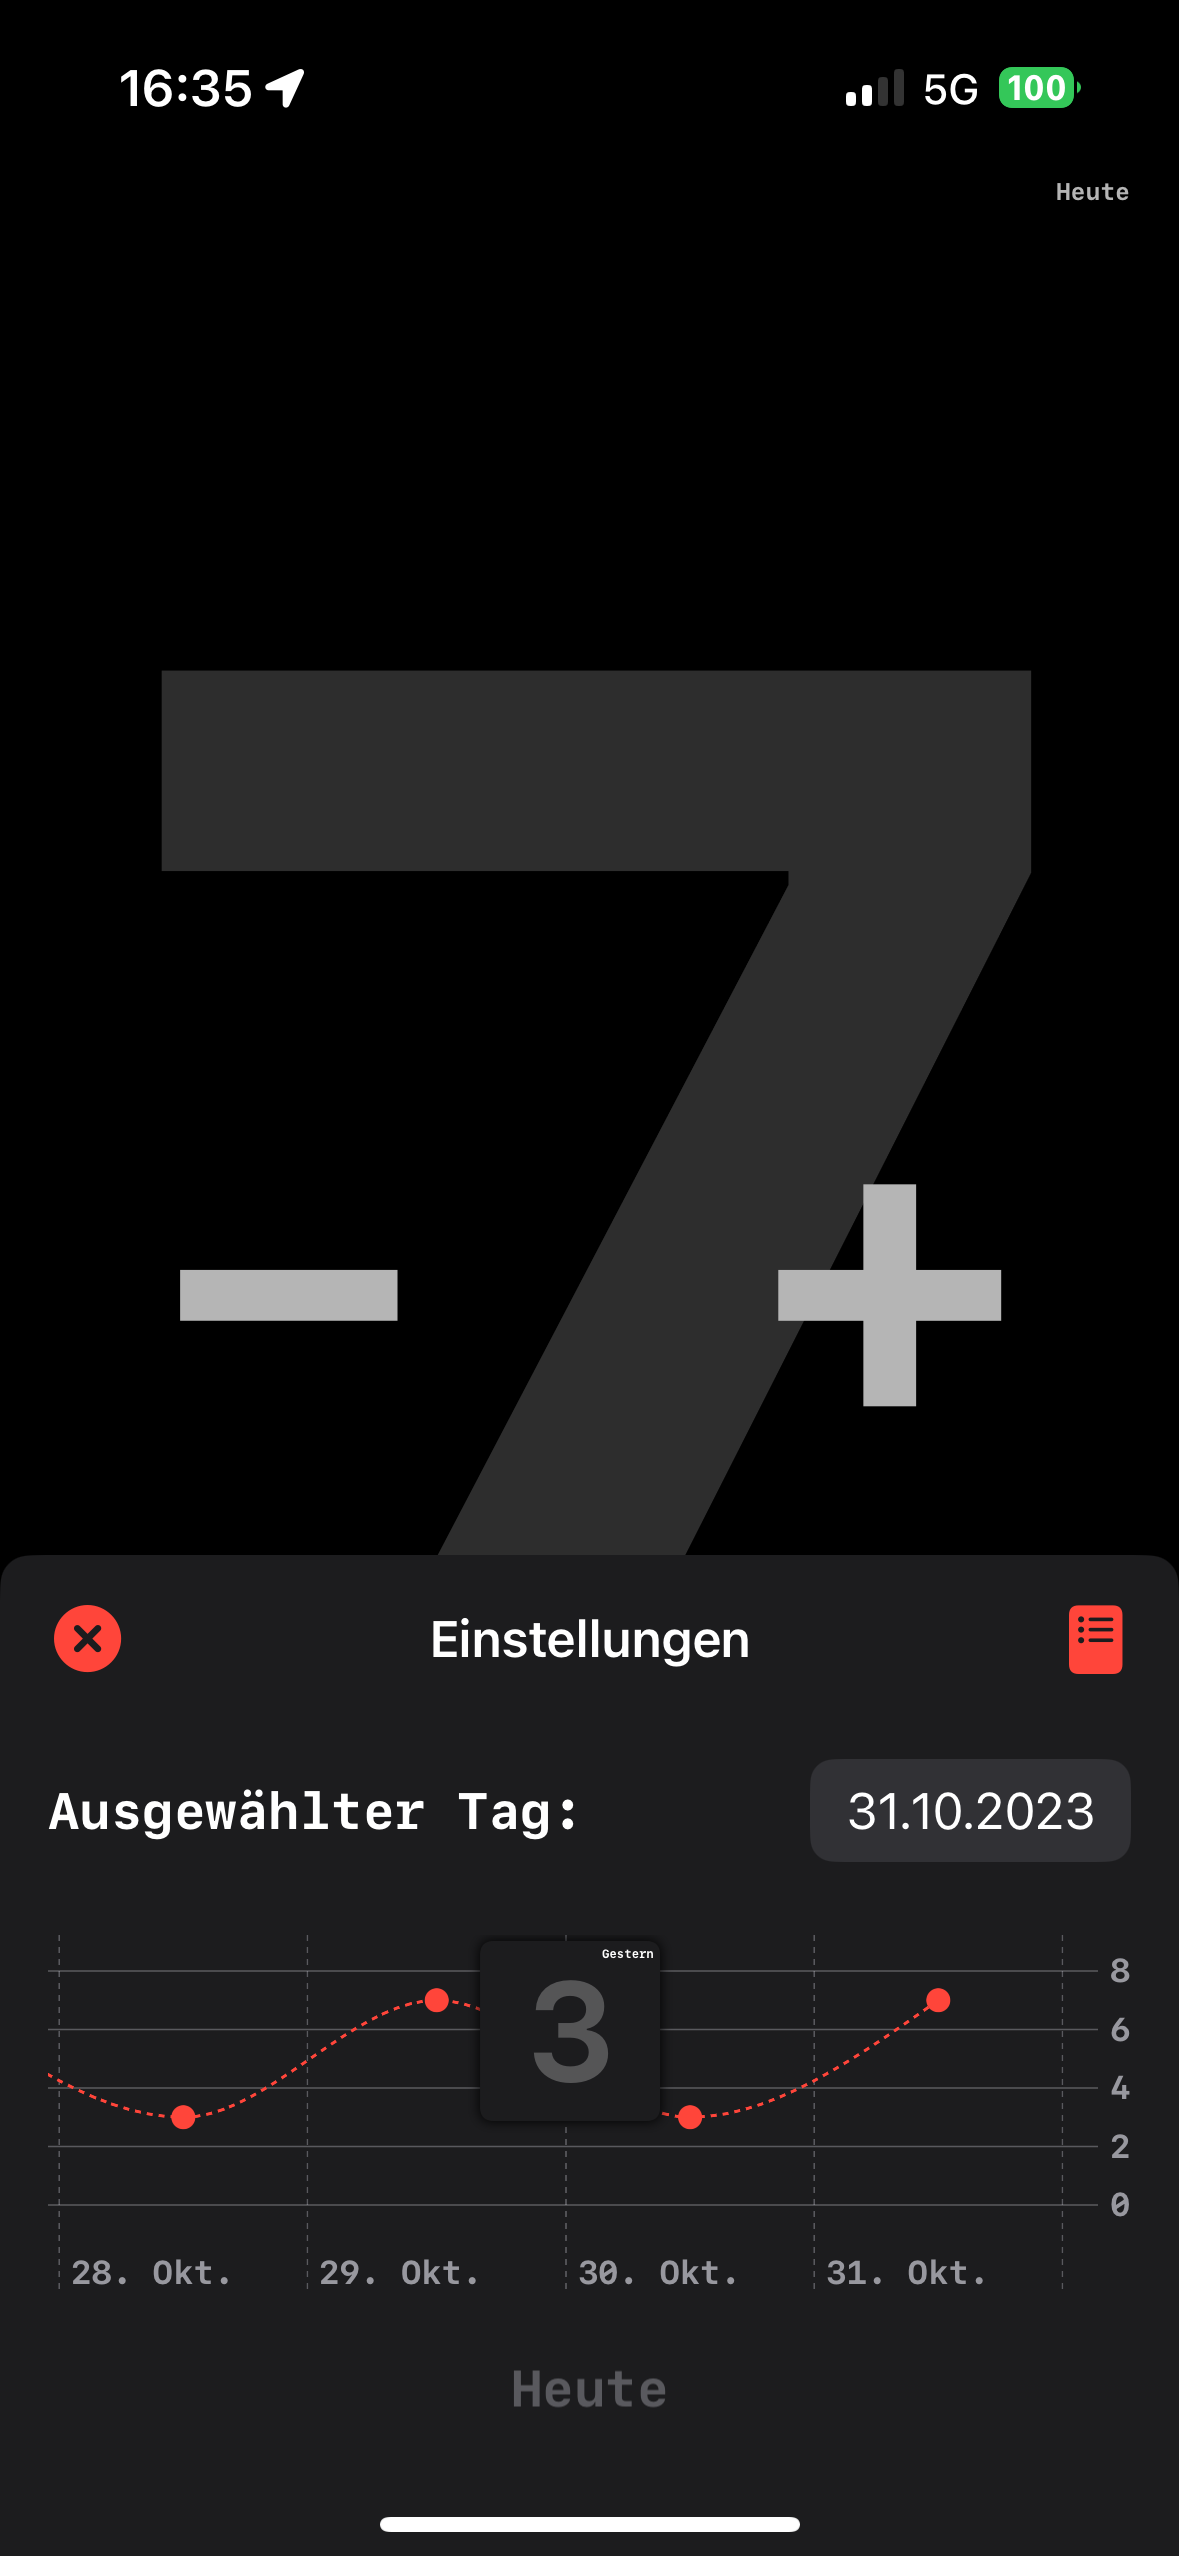
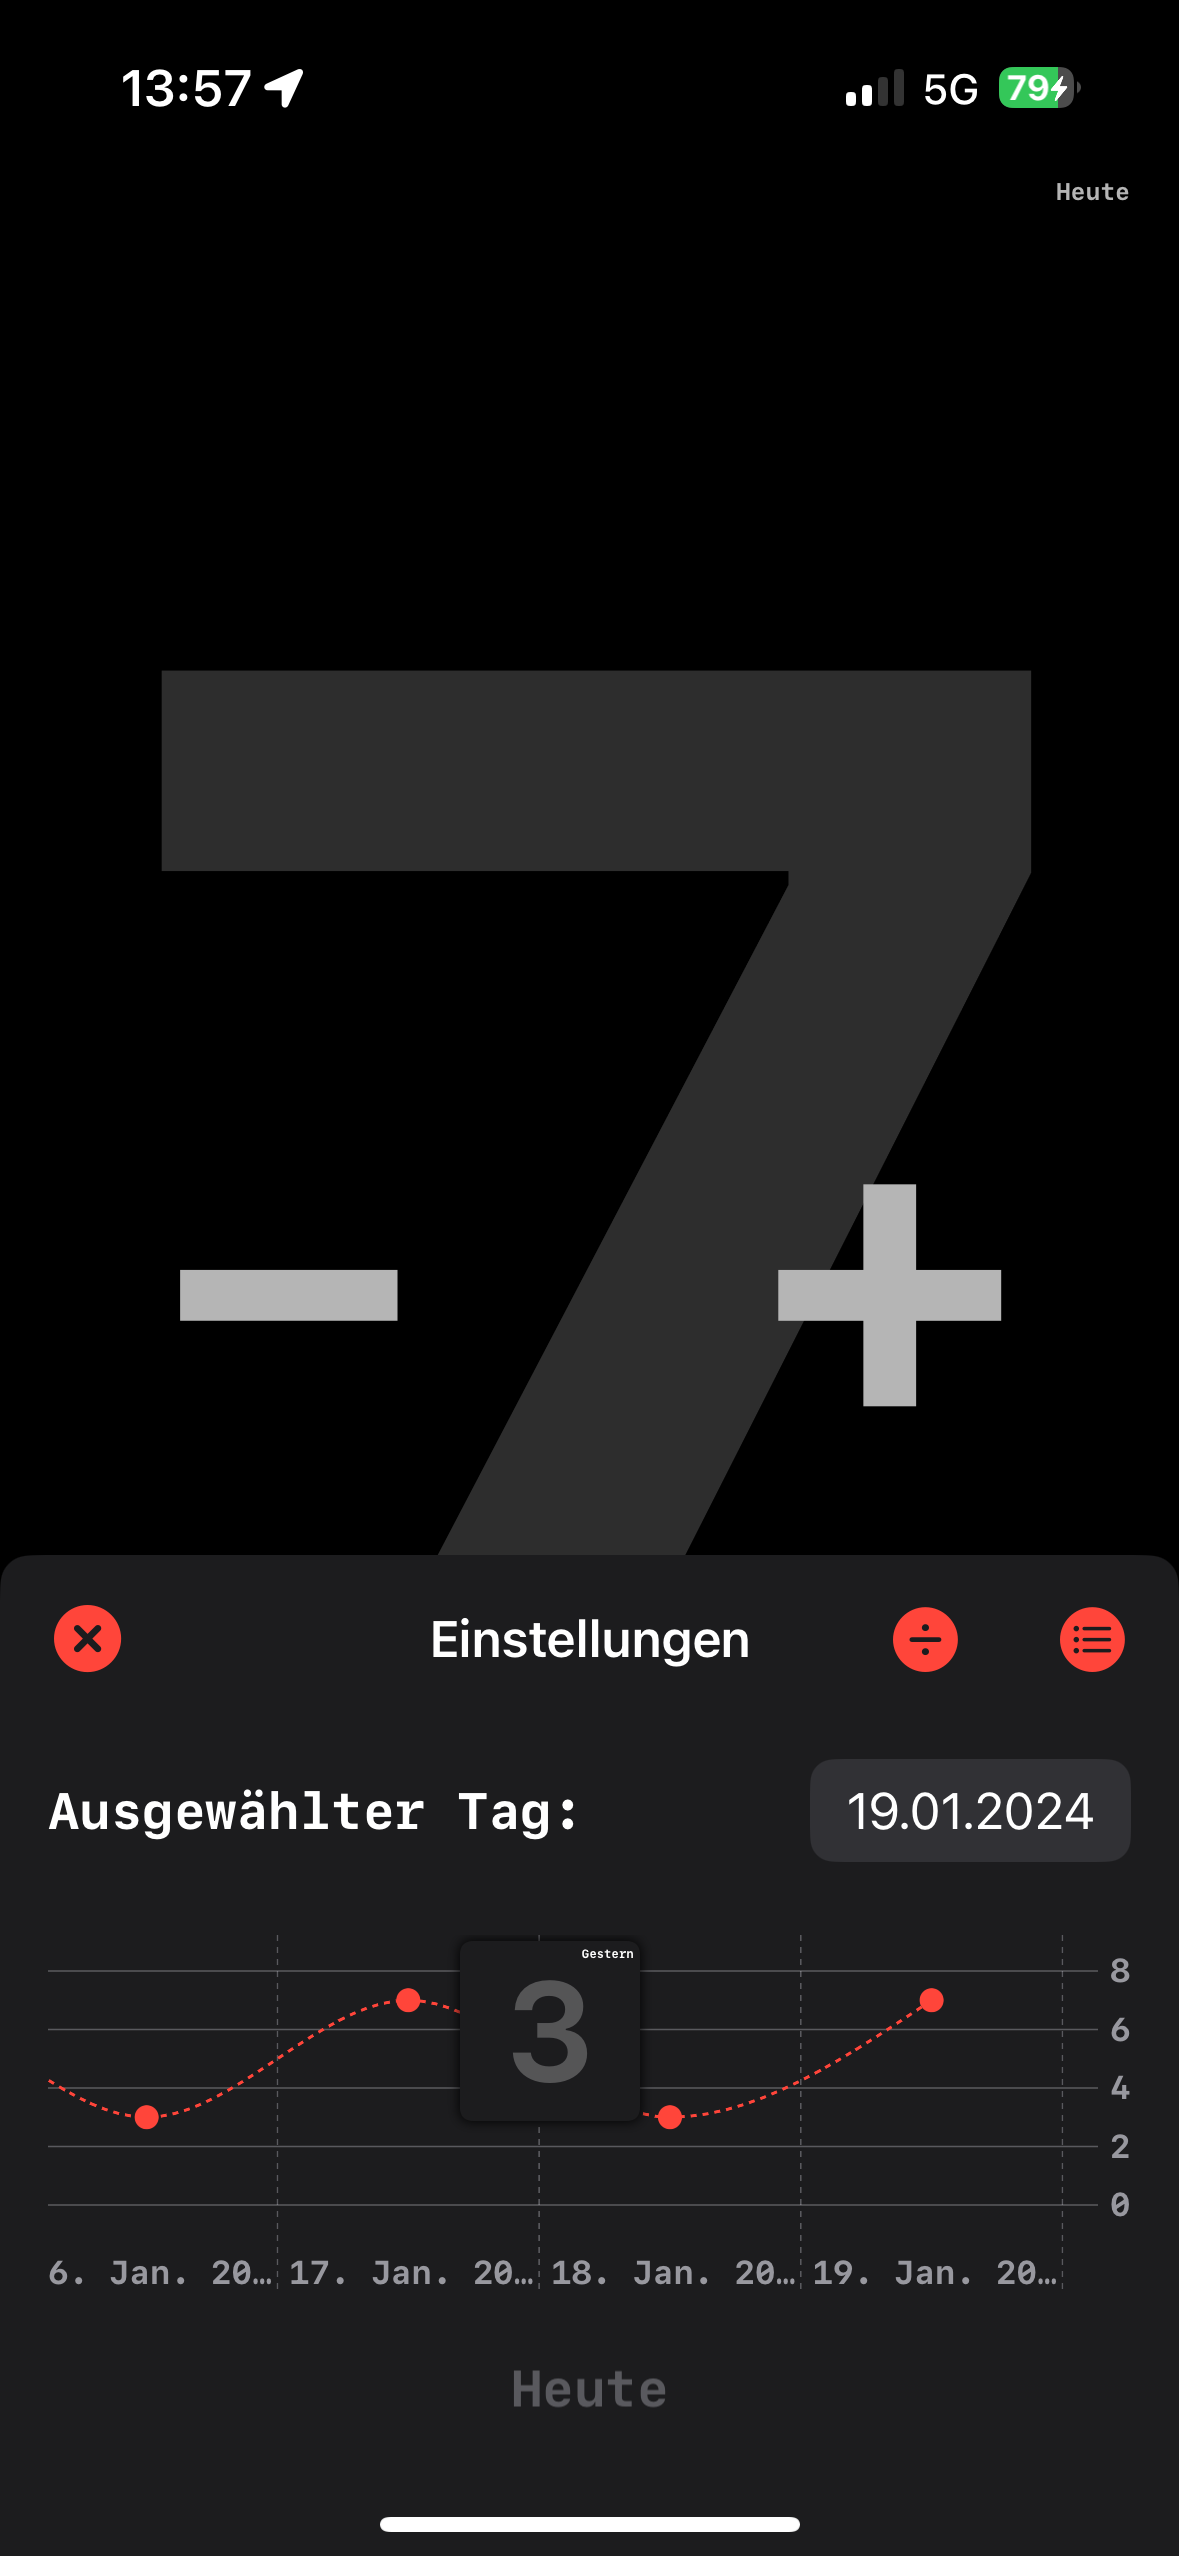
bobbyscounter updates

diff --git a/erolburak.me/Output/de/portfolio/index.html b/erolburak.me/Output/de/portfolio/index.html
@@ -86,7 +86,7 @@
 			<img src="/images/github.svg" class="link-image-portfolio-header">
 		</a>
 	</div>
-</div><br></br><p>Auch die <b>BobbysCounter</b> App ist ein eigenes Projekt von mir, die einen Wert auf und ab zählen kann. Für jeden Tag kann ein solcher Wert angelegt werden. Die eingetragenen Werte der letzten Tage und Wochen werden in einem Chart visualisiert und in einer Liste angezeigt. Zusätzlich kann der Wert des heutigen Tages in einem Widget editiert werden. Dieses Projekt ist auf meinem <a href="https://github.com/erolburak/bobbyscounter" target="_blank">GitHub Profil</a> veröffentlicht.</p><div class="wrapper-collapse">
+</div><br></br><p>Die <strong>Bobby Counter</strong>-App ist mein eigenes Projekt, das einen Zählerwert erhöhen und verringern kann</p><p>Auch die <b>BobbysCounter</b> App ist ein eigenes Projekt von mir, das einen Zählerwert erhöhen und verringern kann. Für jeden Tag kann ein solcher Wert angelegt werden. Die eingetragenen Werte der letzten Tage und Wochen werden in einem Chart visualisiert und in einer Liste angezeigt. Der Durchschnitt der letzten 7, 30 und 90 Zählerwerte wird in einer separaten Ansicht angezeigt. Zusätzlich kann der Wert des heutigen Tages in einem Widget editiert werden. Dieses Projekt ist auf meinem <a href="https://github.com/erolburak/bobbyscounter" target="_blank">GitHub Profil</a> veröffentlicht.</p><div class="wrapper-collapse">
 	<input id="collapse3" class="collapse-toggle" type="checkbox">
 	<label for="collapse3" class="collapse-label-toggle">SCREENSHOTS ANZEIGEN</label>
 	<div class="wrapper-collapse-content">
@@ -112,14 +112,23 @@
 					<img src="/images/screenshots/iPhone.png" class="iPhone-image"/>
 					<img src="/images/screenshots/de/bobbyscounter3.png" class="screenshot-image"/>
 				</div>
-				<p class="screenshot-title">Liste aller Zähler öffnen und editieren</p>
+				<p class="screenshot-title">Durchschnitt der letzten 7, 30 und 90 Zählerwerte anzeigen</p>
 			</div>
 			<div class="wrapper-portfolio-screenshot-title">
 				<div class="wrapper-screenshot">
 					<img src="/images/screenshots/iPhone.png" class="iPhone-image"/>
 					<img src="/images/screenshots/de/bobbyscounter4.png" class="screenshot-image"/>
 				</div>
-				<p class="screenshot-title">Heutigen Zähler editieren</p>
+				<p class="screenshot-title">Liste aller Zähler öffnen und editieren</p>
+			</div>
+		</div>
+		<div class="wrapper-portfolio">
+			<div class="wrapper-portfolio-screenshot-title">
+				<div class="wrapper-screenshot">
+					<img src="/images/screenshots/iPhone.png" class="iPhone-image-single"/>
+					<img src="/images/screenshots/de/bobbyscounter5.png" class="screenshot-image-single"/>
+				</div>
+				<p class="screenshot-title-single">Heutigen Zähler editieren</p>
 			</div>
 		</div>
 	</div>
@@ -219,4 +228,4 @@
 			</div>
 		</div>
 	</div>
-</div></div><footer>© 2023 Burak Erol</footer></body></html>
+</div></div><footer>© 2024 Burak Erol</footer></body></html>

diff --git a/erolburak.me/Output/en/portfolio/index.html b/erolburak.me/Output/en/portfolio/index.html
@@ -86,7 +86,7 @@
 			<img src="/images/github.svg" class="link-image-portfolio-header">
 		</a>
 	</div>
-</div><br></br><p>Also the <b>BobbysCounter</b> app is my own project, which can count a value up and down. Such a value can be created for each day. The values entered for the last few days and weeks are visualized in a chart and displayed in a list. In addition, today's value can be edited in a widget. This project is published on my <a href="https://github.com/erolburak/bobbyscounter" target="_blank">GitHub Profile</a>.</p><div class="wrapper-collapse">
+</div><br></br><p>Also the <b>BobbysCounter</b> app is my own project, which can increase and deacrease a counter value. Such a value can be created for each day. The values entered for the last few days and weeks are visualized in a chart and displayed in a list. The average of the last 7, 30 and 90 counter values is displayed in a separate view. In addition, today's value can be edited in a widget. This project is published on my <a href="https://github.com/erolburak/bobbyscounter" target="_blank">GitHub Profile</a>.</p><div class="wrapper-collapse">
 	<input id="collapse3" class="collapse-toggle" type="checkbox">
 	<label for="collapse3" class="collapse-label-toggle">SHOW SCREENSHOTS</label>
 	<div class="wrapper-collapse-content">
@@ -112,14 +112,23 @@
 					<img src="/images/screenshots/iPhone.png" class="iPhone-image"/>
 					<img src="/images/screenshots/en/bobbyscounter3.png" class="screenshot-image"/>
 				</div>
-				<p class="screenshot-title">Open and edit list of all counters</p>
+				<p class="screenshot-title">Show average of the last 7, 30 and 90 counter values</p>
 			</div>
 			<div class="wrapper-portfolio-screenshot-title">
 				<div class="wrapper-screenshot">
 					<img src="/images/screenshots/iPhone.png" class="iPhone-image"/>
 					<img src="/images/screenshots/en/bobbyscounter4.png" class="screenshot-image"/>
 				</div>
-				<p class="screenshot-title">Edit today's counter</p>
+				<p class="screenshot-title">Open and edit list of all counters</p>
+			</div>
+		</div>
+		<div class="wrapper-portfolio">
+			<div class="wrapper-portfolio-screenshot-title">
+				<div class="wrapper-screenshot">
+					<img src="/images/screenshots/iPhone.png" class="iPhone-image-single"/>
+					<img src="/images/screenshots/en/bobbyscounter5.png" class="screenshot-image-single"/>
+				</div>
+				<p class="screenshot-title-single">Edit today's counter</p>
 			</div>
 		</div>
 	</div>
@@ -219,4 +228,4 @@
 			</div>
 		</div>
 	</div>
-</div></div><footer>© 2023 Burak Erol</footer></body></html>
+</div></div><footer>© 2024 Burak Erol</footer></body></html>

diff --git a/erolburak.me/Output/de/index.html b/erolburak.me/Output/de/index.html
@@ -2,4 +2,4 @@
 	<h1>BURAK EROL</h1>
 	<h2>SENIOR IOS ENTWICKLER</h2>
 	<img src="/images/burakerol.png" class="burakerol-image"/>
-</div></div><footer>© 2023 Burak Erol</footer></body></html>
+</div></div><footer>© 2024 Burak Erol</footer></body></html>

diff --git a/erolburak.me/Output/en/index.html b/erolburak.me/Output/en/index.html
@@ -2,4 +2,4 @@
 	<h1>BURAK EROL</h1>
 	<h2>SENIOR IOS DEVELOPER</h2>
 	<img src="/images/burakerol.png" class="burakerol-image"/>
-</div></div><footer>© 2023 Burak Erol</footer></body></html>
+</div></div><footer>© 2024 Burak Erol</footer></body></html>

diff --git a/erolburak.me/Output/index.html b/erolburak.me/Output/index.html
@@ -2,4 +2,4 @@
 	<h1>BURAK EROL</h1>
 	<h2>SENIOR IOS DEVELOPER</h2>
 	<img src="/images/burakerol.png" class="burakerol-image"/>
-</div></div><footer>© 2023 Burak Erol</footer></body></html>
+</div></div><footer>© 2024 Burak Erol</footer></body></html>

diff --git a/erolburak.me/Output/en/aboutme/index.html b/erolburak.me/Output/en/aboutme/index.html
@@ -3,4 +3,4 @@
 	<p>• Skateboarding</p>
 	<p>• Snowboarding</p>
 	<p>• Visiting concerts</p>
-</ul></div><footer>© 2023 Burak Erol</footer></body></html>
+</ul></div><footer>© 2024 Burak Erol</footer></body></html>

diff --git a/erolburak.me/Output/de/aboutme/index.html b/erolburak.me/Output/de/aboutme/index.html
@@ -3,4 +3,4 @@
 	<p>• Skateboarden</p>
 	<p>• Snowboarden</p>
 	<p>• Konzerte besuchen</p>
-</ul></div><footer>© 2023 Burak Erol</footer></body></html>
+</ul></div><footer>© 2024 Burak Erol</footer></body></html>

diff --git a/erolburak.me/de/portfolio/index.md b/erolburak.me/de/portfolio/index.md
@@ -99,8 +99,8 @@ title: PORTFOLIO
 		</a>
 	</div>
 </div>
-<br></br>
-<p>Auch die <b>BobbysCounter</b> App ist ein eigenes Projekt von mir, die einen Wert auf und ab zählen kann. Für jeden Tag kann ein solcher Wert angelegt werden. Die eingetragenen Werte der letzten Tage und Wochen werden in einem Chart visualisiert und in einer Liste angezeigt. Zusätzlich kann der Wert des heutigen Tages in einem Widget editiert werden. Dieses Projekt ist auf meinem <a href="https://github.com/erolburak/bobbyscounter" target="_blank">GitHub Profil</a> veröffentlicht.</p>
+<br></br>Die **Bobby Counter**-App ist mein eigenes Projekt, das einen Zählerwert erhöhen und verringern kann
+<p>Auch die <b>BobbysCounter</b> App ist ein eigenes Projekt von mir, das einen Zählerwert erhöhen und verringern kann. Für jeden Tag kann ein solcher Wert angelegt werden. Die eingetragenen Werte der letzten Tage und Wochen werden in einem Chart visualisiert und in einer Liste angezeigt. Der Durchschnitt der letzten 7, 30 und 90 Zählerwerte wird in einer separaten Ansicht angezeigt. Zusätzlich kann der Wert des heutigen Tages in einem Widget editiert werden. Dieses Projekt ist auf meinem <a href="https://github.com/erolburak/bobbyscounter" target="_blank">GitHub Profil</a> veröffentlicht.</p>
 <div class="wrapper-collapse">
 	<input id="collapse3" class="collapse-toggle" type="checkbox">
 	<label for="collapse3" class="collapse-label-toggle">SCREENSHOTS ANZEIGEN</label>
@@ -127,14 +127,23 @@ title: PORTFOLIO
 					<img src="/images/screenshots/iPhone.png" class="iPhone-image"/>
 					<img src="/images/screenshots/de/bobbyscounter3.png" class="screenshot-image"/>
 				</div>
-				<p class="screenshot-title">Liste aller Zähler öffnen und editieren</p>
+				<p class="screenshot-title">Durchschnitt der letzten 7, 30 und 90 Zählerwerte anzeigen</p>
 			</div>
 			<div class="wrapper-portfolio-screenshot-title">
 				<div class="wrapper-screenshot">
 					<img src="/images/screenshots/iPhone.png" class="iPhone-image"/>
 					<img src="/images/screenshots/de/bobbyscounter4.png" class="screenshot-image"/>
 				</div>
-				<p class="screenshot-title">Heutigen Zähler editieren</p>
+				<p class="screenshot-title">Liste aller Zähler öffnen und editieren</p>
+			</div>
+		</div>
+		<div class="wrapper-portfolio">
+			<div class="wrapper-portfolio-screenshot-title">
+				<div class="wrapper-screenshot">
+					<img src="/images/screenshots/iPhone.png" class="iPhone-image-single"/>
+					<img src="/images/screenshots/de/bobbyscounter5.png" class="screenshot-image-single"/>
+				</div>
+				<p class="screenshot-title-single">Heutigen Zähler editieren</p>
 			</div>
 		</div>
 	</div>

diff --git a/erolburak.me/en/portfolio/index.md b/erolburak.me/en/portfolio/index.md
@@ -100,7 +100,7 @@ title: PORTFOLIO
 	</div>
 </div>
 <br></br>
-<p>Also the <b>BobbysCounter</b> app is my own project, which can count a value up and down. Such a value can be created for each day. The values entered for the last few days and weeks are visualized in a chart and displayed in a list. In addition, today's value can be edited in a widget. This project is published on my <a href="https://github.com/erolburak/bobbyscounter" target="_blank">GitHub Profile</a>.</p>
+<p>Also the <b>BobbysCounter</b> app is my own project, which can increase and deacrease a counter value. Such a value can be created for each day. The values entered for the last few days and weeks are visualized in a chart and displayed in a list. The average of the last 7, 30 and 90 counter values is displayed in a separate view. In addition, today's value can be edited in a widget. This project is published on my <a href="https://github.com/erolburak/bobbyscounter" target="_blank">GitHub Profile</a>.</p>
 <div class="wrapper-collapse">
 	<input id="collapse3" class="collapse-toggle" type="checkbox">
 	<label for="collapse3" class="collapse-label-toggle">SHOW SCREENSHOTS</label>
@@ -127,14 +127,23 @@ title: PORTFOLIO
 					<img src="/images/screenshots/iPhone.png" class="iPhone-image"/>
 					<img src="/images/screenshots/en/bobbyscounter3.png" class="screenshot-image"/>
 				</div>
-				<p class="screenshot-title">Open and edit list of all counters</p>
+				<p class="screenshot-title">Show average of the last 7, 30 and 90 counter values</p>
 			</div>
 			<div class="wrapper-portfolio-screenshot-title">
 				<div class="wrapper-screenshot">
 					<img src="/images/screenshots/iPhone.png" class="iPhone-image"/>
 					<img src="/images/screenshots/en/bobbyscounter4.png" class="screenshot-image"/>
 				</div>
-				<p class="screenshot-title">Edit today's counter</p>
+				<p class="screenshot-title">Open and edit list of all counters</p>
+			</div>
+		</div>
+		<div class="wrapper-portfolio">
+			<div class="wrapper-portfolio-screenshot-title">
+				<div class="wrapper-screenshot">
+					<img src="/images/screenshots/iPhone.png" class="iPhone-image-single"/>
+					<img src="/images/screenshots/en/bobbyscounter5.png" class="screenshot-image-single"/>
+				</div>
+				<p class="screenshot-title-single">Edit today's counter</p>
 			</div>
 		</div>
 	</div>
